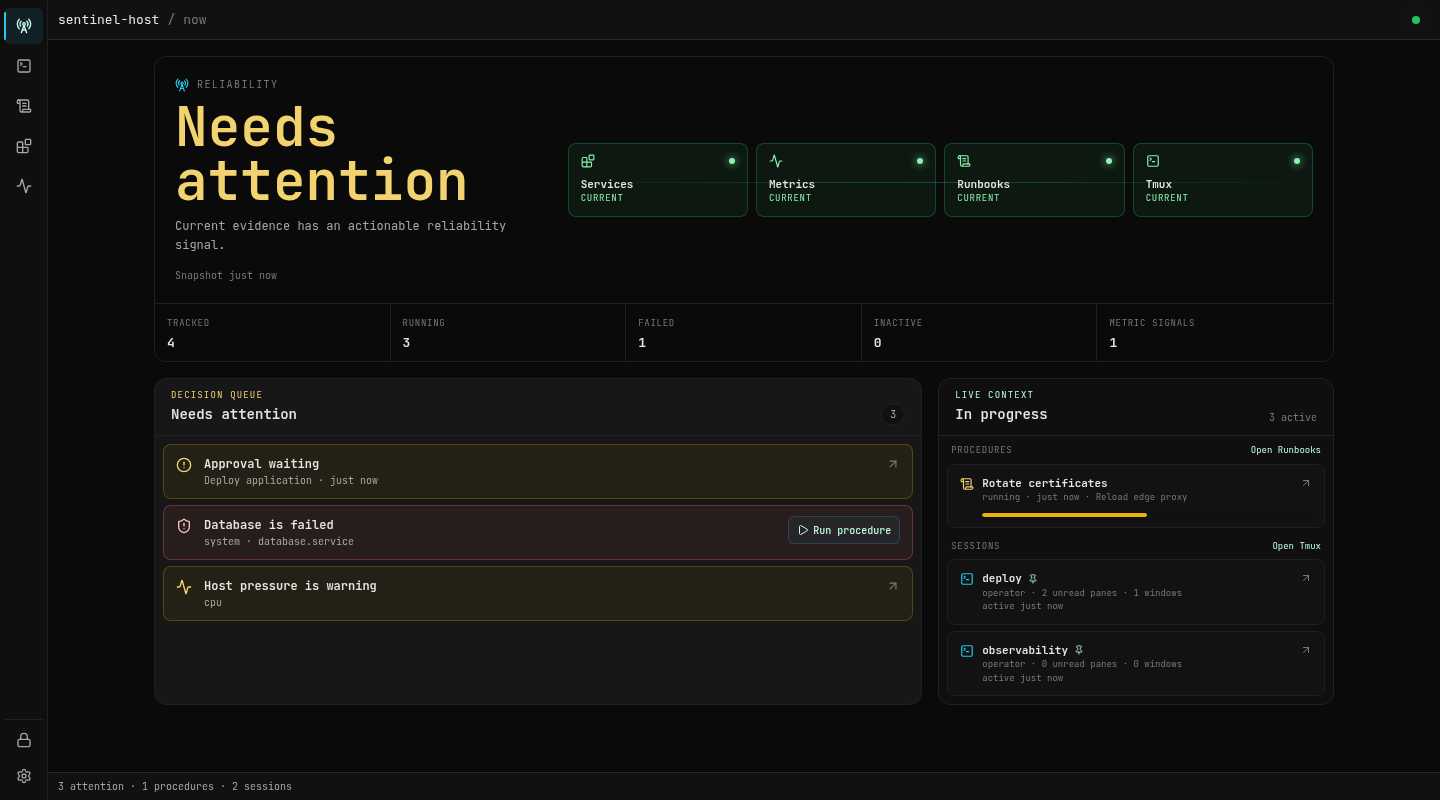
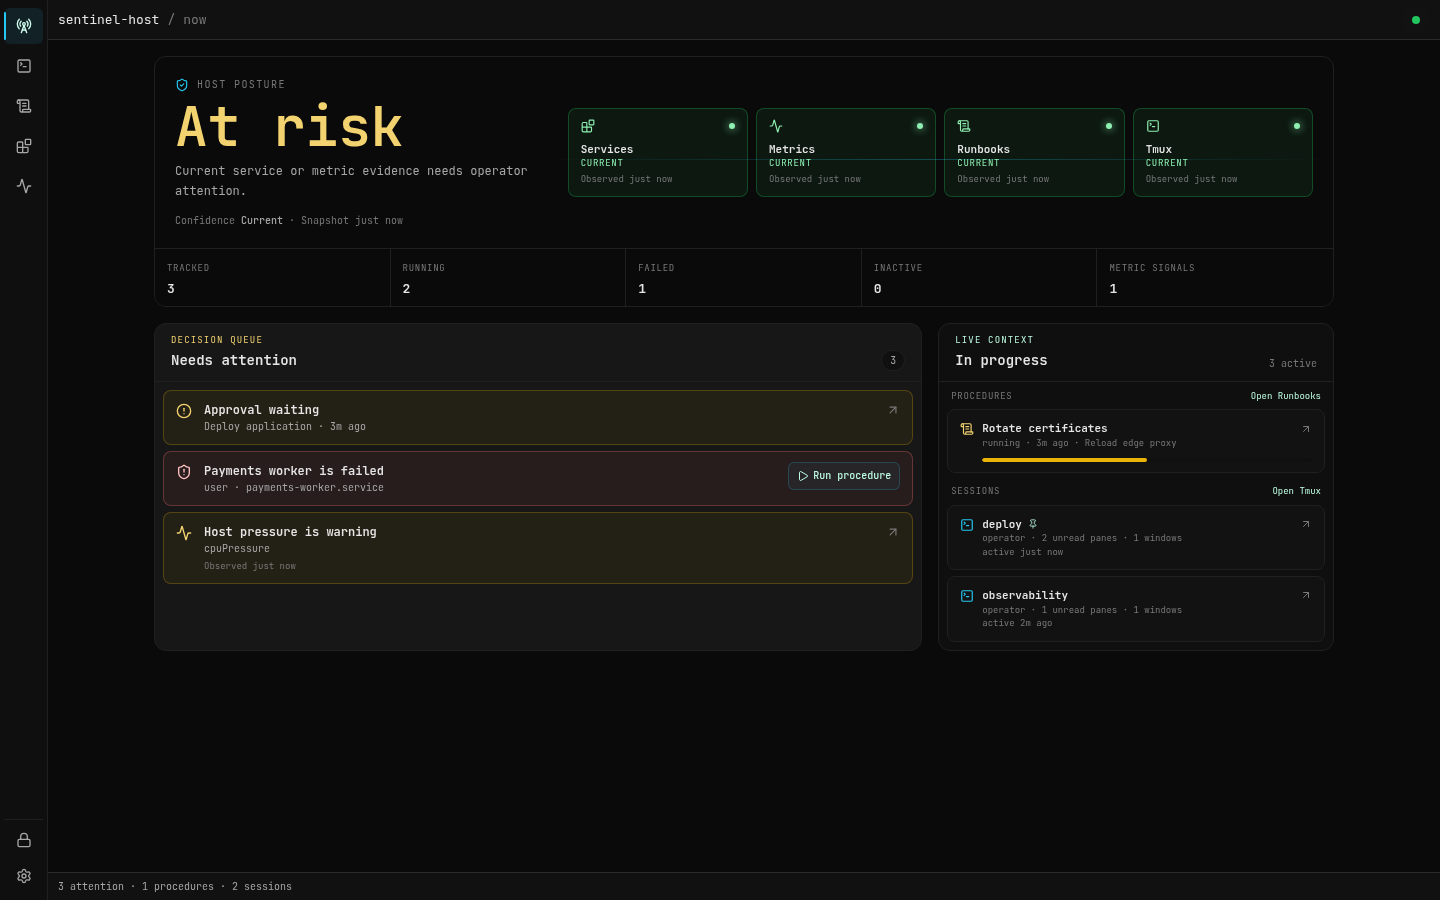
docs(ops): document the operational value loop

diff --git a/README.md b/README.md
@@ -28,20 +28,21 @@ No Electron. No cloud relay. Just your host and your shell.
 
 - One binary, fast setup, low operational overhead.
 - Realtime tmux control with session, window, and pane visibility.
-- Service monitoring and control for systemd and launchd.
-- Services and metrics for host-level observability.
-- Runbooks for executable operational procedures with job tracking.
-- Multi-user session support for shared hosts and team environments.
+- Current host posture and a bounded decision queue instead of an alert inbox.
+- Service diagnosis with structured condition, transition-scoped logs, and
+  verified actions for systemd and launchd.
+- Temporal host-pressure signals that distinguish a spike from sustained risk.
+- Explicit Runbooks with approval boundaries and immutable execution receipts.
 - Optimistic and responsive UI tuned for desktop and mobile.
 
 ## Core Capabilities
 
-- **Now** — Operational home at `/` for reliability, decisions that need attention, live work, and precise handoffs.
+- **Now** — Operational home at `/` for posture, evidence confidence, decisions that need attention, live work, and precise handoffs.
 - **Tmux** — Interactive PTY in the browser with tmux workspace management, window launchers, and reusable session launchers.
 - **Multi-user sessions** — Run tmux sessions as different OS users with a security allowlist and systemd-aware user switching on Linux.
-- **Services** — Monitor and control systemd/launchd units from `/services`.
-- **Metrics** — System and runtime resource dashboard at `/metrics`.
-- **Runbooks** — Step-by-step operational procedures with job history at `/runbooks`.
+- **Services** — Inspect current cause, logs, procedure context, and verified lifecycle actions from `/services`.
+- **Metrics** — Diagnose canonical host posture and live system/runtime signals at `/metrics`.
+- **Runbooks** — Confirm and execute operational procedures with approvals, target ownership, and immutable receipts at `/runbooks`.
 - Event-driven updates over WebSocket (`/ws/events`).
 - Service mode and daily autoupdate (Linux/macOS).
 - Optional token auth and origin allowlist.
@@ -107,19 +108,19 @@ If you expose Sentinel outside localhost (`0.0.0.0`), always configure:
 
 ### Ops Control Plane
 
-> **Now:** Start with current reliability, operator attention, and work already in progress.
+> **Now:** Start with host posture, evidence confidence, operator decisions, and work already in progress.
 
 ![Desktop Now](docs/assets/images/desktop-now.png)
 
-> **Services:** Monitor and control systemd/launchd services with live status, logs, and one-click actions.
+> **Services:** Move from a failed service to structured cause, transition-scoped logs, procedure context, and verified actions.
 
 ![Desktop services](docs/assets/images/desktop-services.png)
 
-> **Metrics:** CPU, memory, disk, and runtime stats at a glance — no external agents needed.
+> **Metrics:** Separate live samples from sustained host pressure and open the exact signal carried by a Now handoff.
 
 ![Desktop metrics](docs/assets/images/desktop-metrics.png)
 
-> **Runbooks:** Executable step-by-step procedures with job tracking and per-step output history.
+> **Runbooks:** Review effects before execution, pause at approval boundaries, and retain an immutable receipt plus current target recheck.
 
 ![Desktop runbooks](docs/assets/images/desktop-runbooks.png)
 

diff --git a/docs/features/ops-control-plane.md b/docs/features/ops-control-plane.md
@@ -39,6 +39,24 @@ its owner page and emits a separate posture event only when the semantic signal
 set changes. Runbooks publishes definition changes from the shared HTTP/MCP
 manager. Now recomposes from those events instead of duplicating collectors.
 
+### Operational Value Loop
+
+The four owner modules participate in one explicit flow:
+
+1. **Now** composes current posture, evidence confidence, and a bounded decision
+   queue.
+2. **Services**, **Metrics**, or **Tmux** explains the current evidence in the
+   module that owns it.
+3. **Runbooks** confirms the target and effects, enforces one active execution
+   per service target, and pauses at human approval boundaries.
+4. The immutable receipt records what was accepted and what actually ran.
+5. A separate current-target probe verifies the service after execution.
+6. Owner events recompose **Now**; resolved evidence leaves the queue instead of
+   becoming a permanent incident object.
+
+Sentinel deliberately does not add an Incident, recovery timeline, alert
+acknowledgement, or a second cross-module state machine for this loop.
+
 ### API Surface
 
 Overview and configuration:

diff --git a/docs/README.md b/docs/README.md
@@ -77,15 +77,15 @@ Tip: click any image to zoom.
 
 ![Desktop Now](assets/images/desktop-now.png)
 
-> **Services:** Monitor and control systemd/launchd services with live status, logs, and one-click actions.
+> **Services:** Follow current condition into transition-scoped logs, procedure context, and verified lifecycle actions.
 
 ![Desktop services](assets/images/desktop-services.png)
 
-> **Metrics:** CPU, memory, disk, and runtime stats at a glance — no external agents needed.
+> **Metrics:** Inspect live samples and sustained posture signals, including focused handoffs from Now.
 
 ![Desktop metrics](assets/images/desktop-metrics.png)
 
-> **Runbooks:** Executable step-by-step procedures with job tracking and per-step output history.
+> **Runbooks:** Confirm effects, handle approval boundaries, and retain immutable execution receipts with a current target recheck.
 
 ![Desktop runbooks](assets/images/desktop-runbooks.png)
 

diff --git a/docs/features/now.md b/docs/features/now.md
@@ -106,6 +106,19 @@ Now listens only to semantic `ops.posture.updated` changes. Runbook definition
 create, update, and delete operations emit `ops.runbooks.updated` through the
 shared manager used by HTTP and MCP.
 
+## Operational Loop
+
+Now is the entrance and the return point of one bounded loop:
+
+1. Observe host posture, evidence confidence, and the decision queue.
+2. Follow the typed handoff into the owner module for status, logs, pressure,
+   terminal context, or an approval.
+3. Start a procedure only after reviewing its target and effects.
+4. Use the immutable execution receipt to audit what actually ran.
+5. Recheck the current service target independently from the historical result.
+6. Return to Now, which recomposes from owner events and becomes calm when no
+   current evidence requires a decision.
+
 ## Boundaries
 
 Now is a read and handoff layer. It has no table, durable state, background

diff --git a/docs/features/runbooks.md b/docs/features/runbooks.md
@@ -154,6 +154,12 @@ execution result from the current state of its service target. Current target
 state is fetched only while the receipt is open and carries its own
 `observedAt`; it never rewrites historical evidence.
 
+Runbooks owns action and proof in the operational loop. Now and Services can
+hand off a service target, but every manual execution still uses the same
+effect-review dialog. The resulting receipt freezes the accepted definition,
+source, parameters, and target; its live target recheck then closes the loop
+without turning current state into historical output.
+
 Only one queued, running, or waiting-for-approval job may own a service target
 at a time. A competing start returns `409 RUNBOOK_TARGET_BUSY`; targetless jobs
 continue to use only the global concurrency limit.

diff --git a/docs/features/metrics.md b/docs/features/metrics.md
@@ -59,6 +59,12 @@ Go runtime statistics for the Sentinel server process:
 - Real-time overview updates via WebSocket (`ops.overview.updated`).
 - Help dialog (triggered via the `?` button) explaining the metrics system.
 
+Metrics owns pressure diagnosis in the operational loop. A Now handoff carries
+the canonical signal name and the attention item's `observedAt`; Metrics focuses
+that live card while clearly stating that it does not retain a historical
+sample for the handoff instant. It never infers a responsible Service or
+process from host-level pressure.
+
 ## Data Source
 
 - All metrics are collected locally by the Sentinel backend.

diff --git a/docs/features/mcp.md b/docs/features/mcp.md
@@ -139,6 +139,11 @@ waiting-for-approval execution fails with `target service already has an active
 execution`. Runs without a service target remain governed only by the global
 concurrency limit.
 
+MCP uses the same Runbook Manager as Now, the HTTP API, and the Scheduler.
+Therefore target ownership, immutable receipts, persisted source metadata, and
+the prohibition on agent approval are identical across entry points; MCP does
+not create a parallel execution path.
+
 ## Interaction Model
 
 `tmux_attach` returns an `attachmentId`, active `paneId`, event `cursor`, and

diff --git a/docs/features/services.md b/docs/features/services.md
@@ -164,6 +164,12 @@ before manager properties and raw output. An associated procedure opens the
 exact definition at `/runbooks?runbook=<id>`, while the latest execution opens
 its immutable receipt at `/runbooks?job=<id>`.
 
+Services owns diagnosis in the operational loop. A failed item from Now opens
+this exact status view first; the operator can move from structured cause to a
+transition-scoped log slice, then to the associated procedure or latest
+receipt. If no procedure is associated, Now offers diagnosis but no speculative
+recovery action.
+
 **Logs**:
 
 ```

diff --git a/docs/reference/http-api.md b/docs/reference/http-api.md
@@ -283,6 +283,11 @@ return `NOW_RUNBOOK_NOT_FOUND`, `NOW_RUNBOOK_DISABLED`, or
 `NOW_RUNBOOK_CONFLICT`. This endpoint never starts, stops, or restarts the
 service directly.
 
+The cross-module contract is directional: Now links to typed owner URLs,
+Services returns procedure/latest-run context, Runbook jobs persist immutable
+execution evidence, and the receipt probes current target state separately.
+No endpoint creates an Incident, timeline, or duplicate recovery record.
+
 ## Operations: Control Plane
 
 ### Overview and Metrics

diff --git a/docs/guide/architecture.md b/docs/guide/architecture.md
@@ -72,6 +72,12 @@ flowchart LR
   Recheck --> Now
 ```
 
+The arrows are ownership boundaries, not a shared workflow table. Now owns
+composition and handoff; Services owns current condition, logs, and lifecycle
+verification; Metrics owns temporal posture; Runbooks owns confirmation,
+target admission, approval, and immutable receipts; Tmux owns terminal context.
+Only Runbook executions are durable workflow records.
+
 ## Data Model (Operational)
 
 - Session metadata
